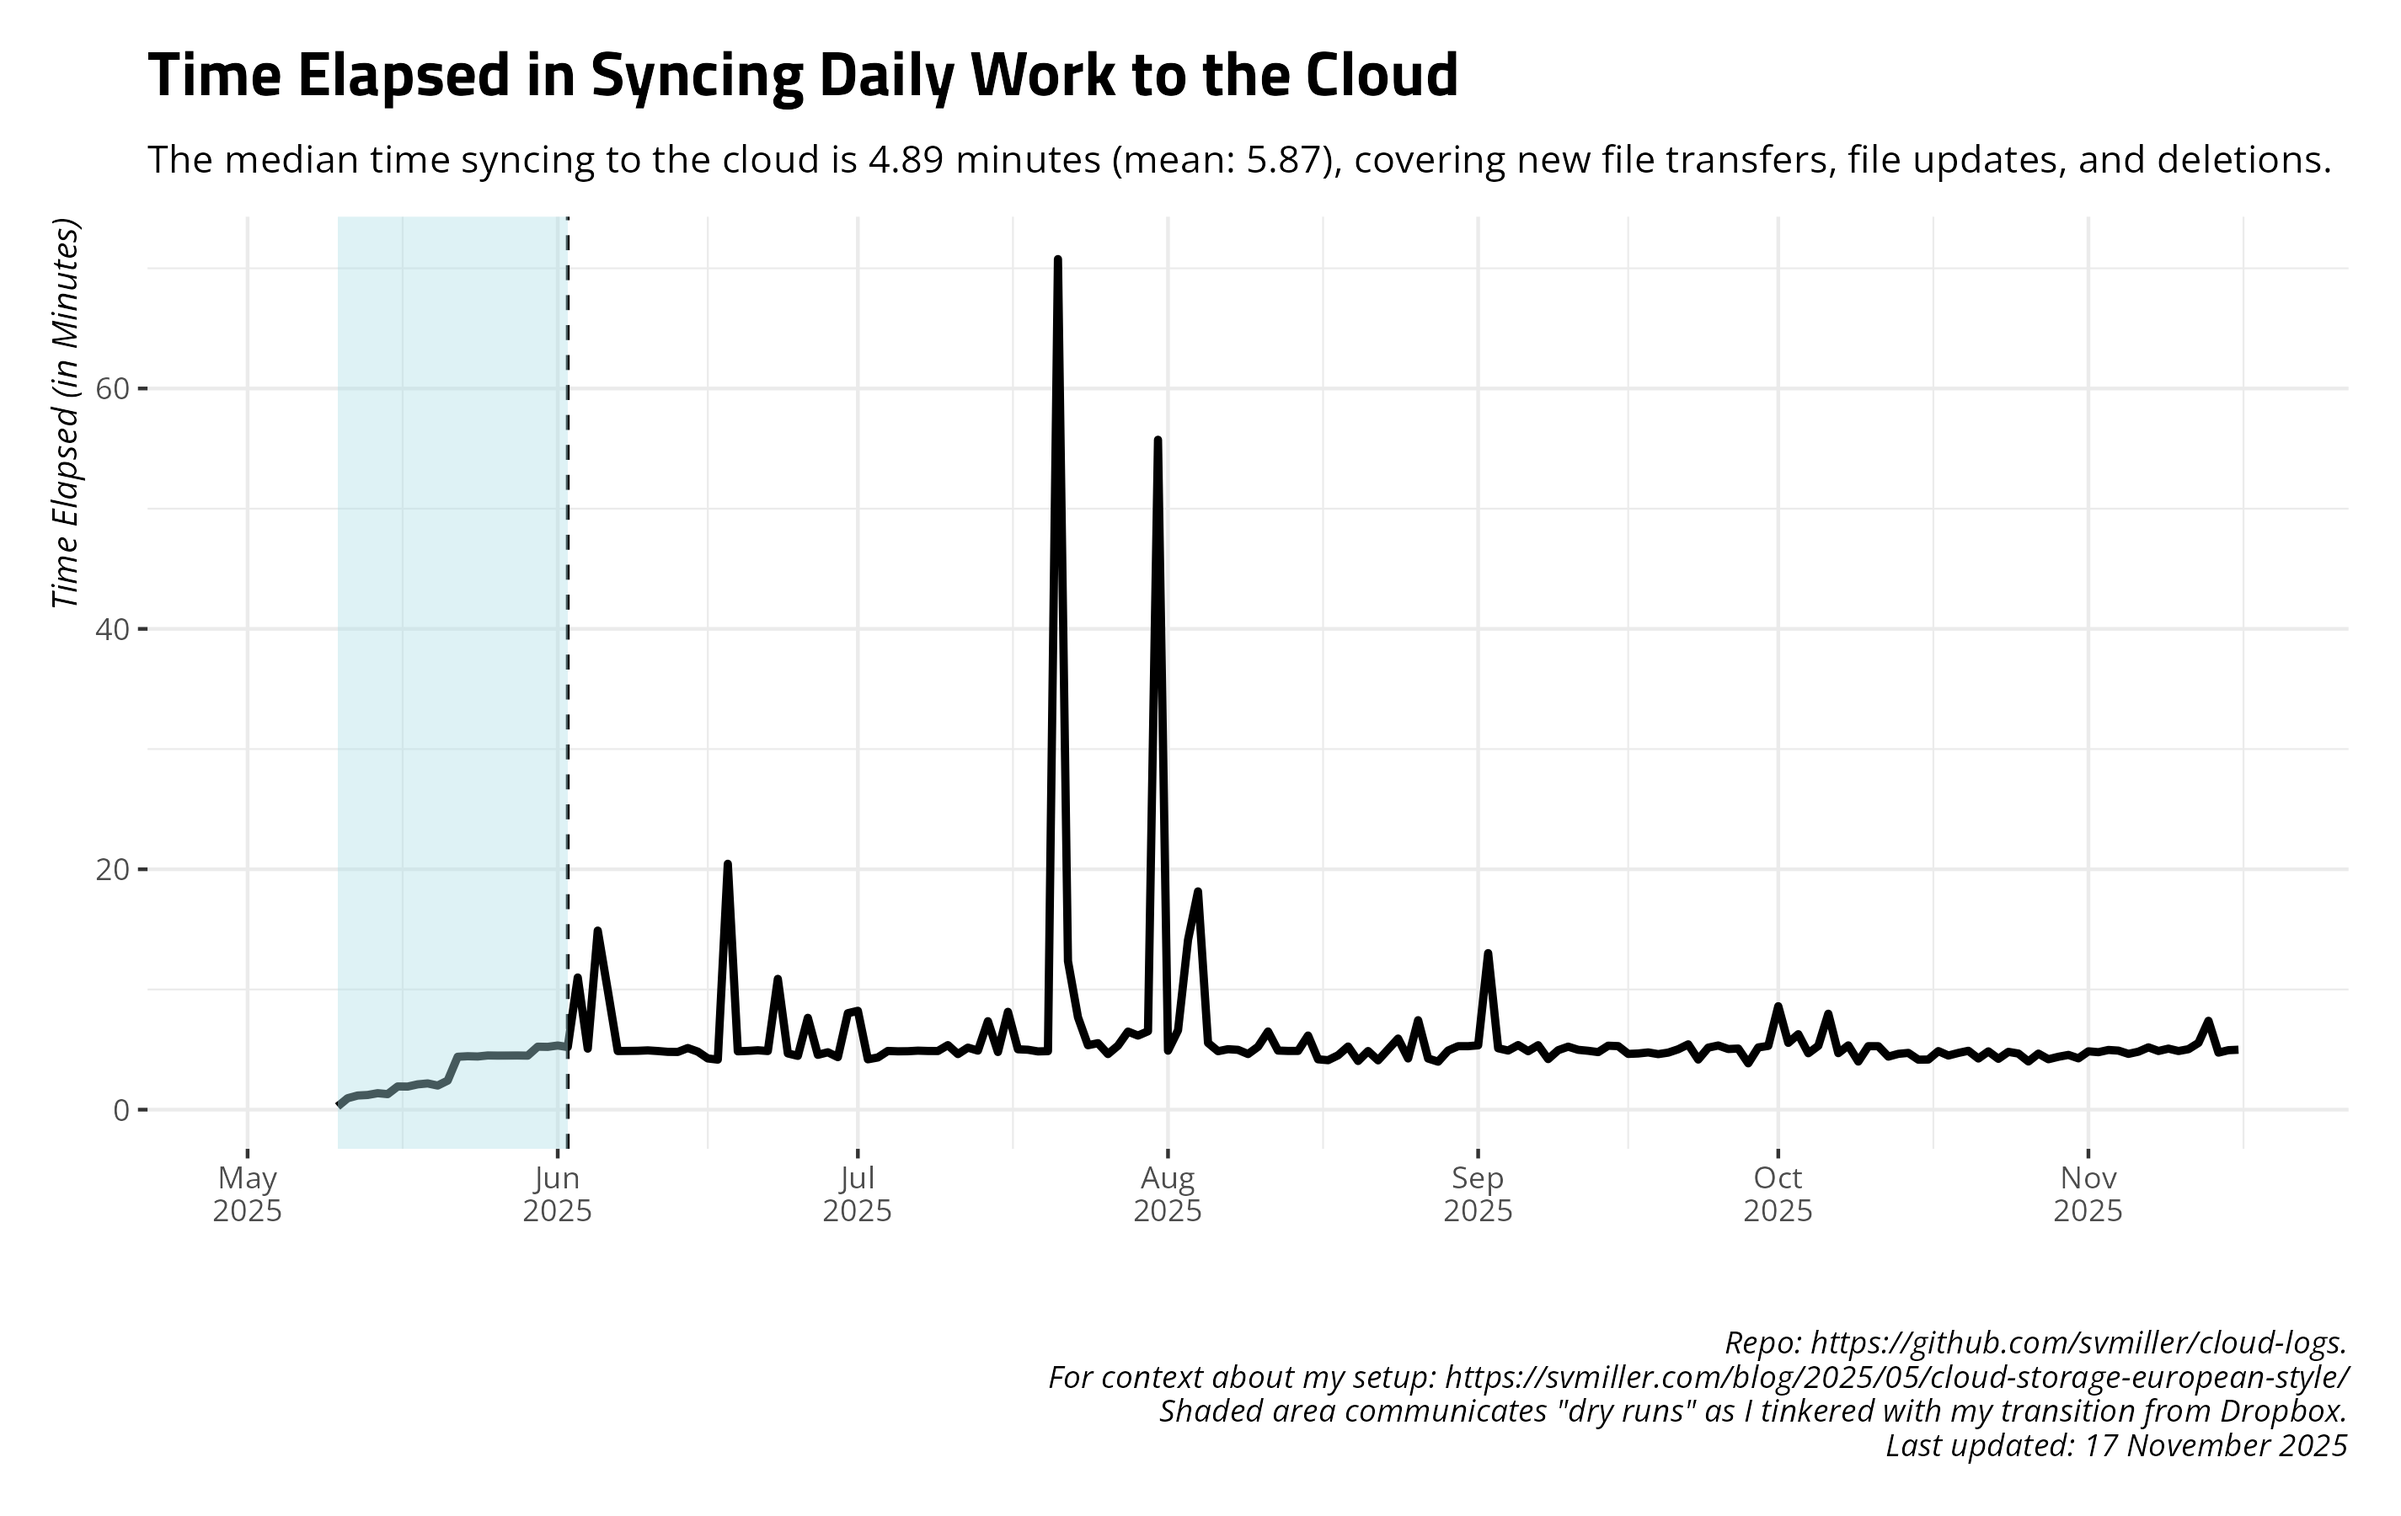
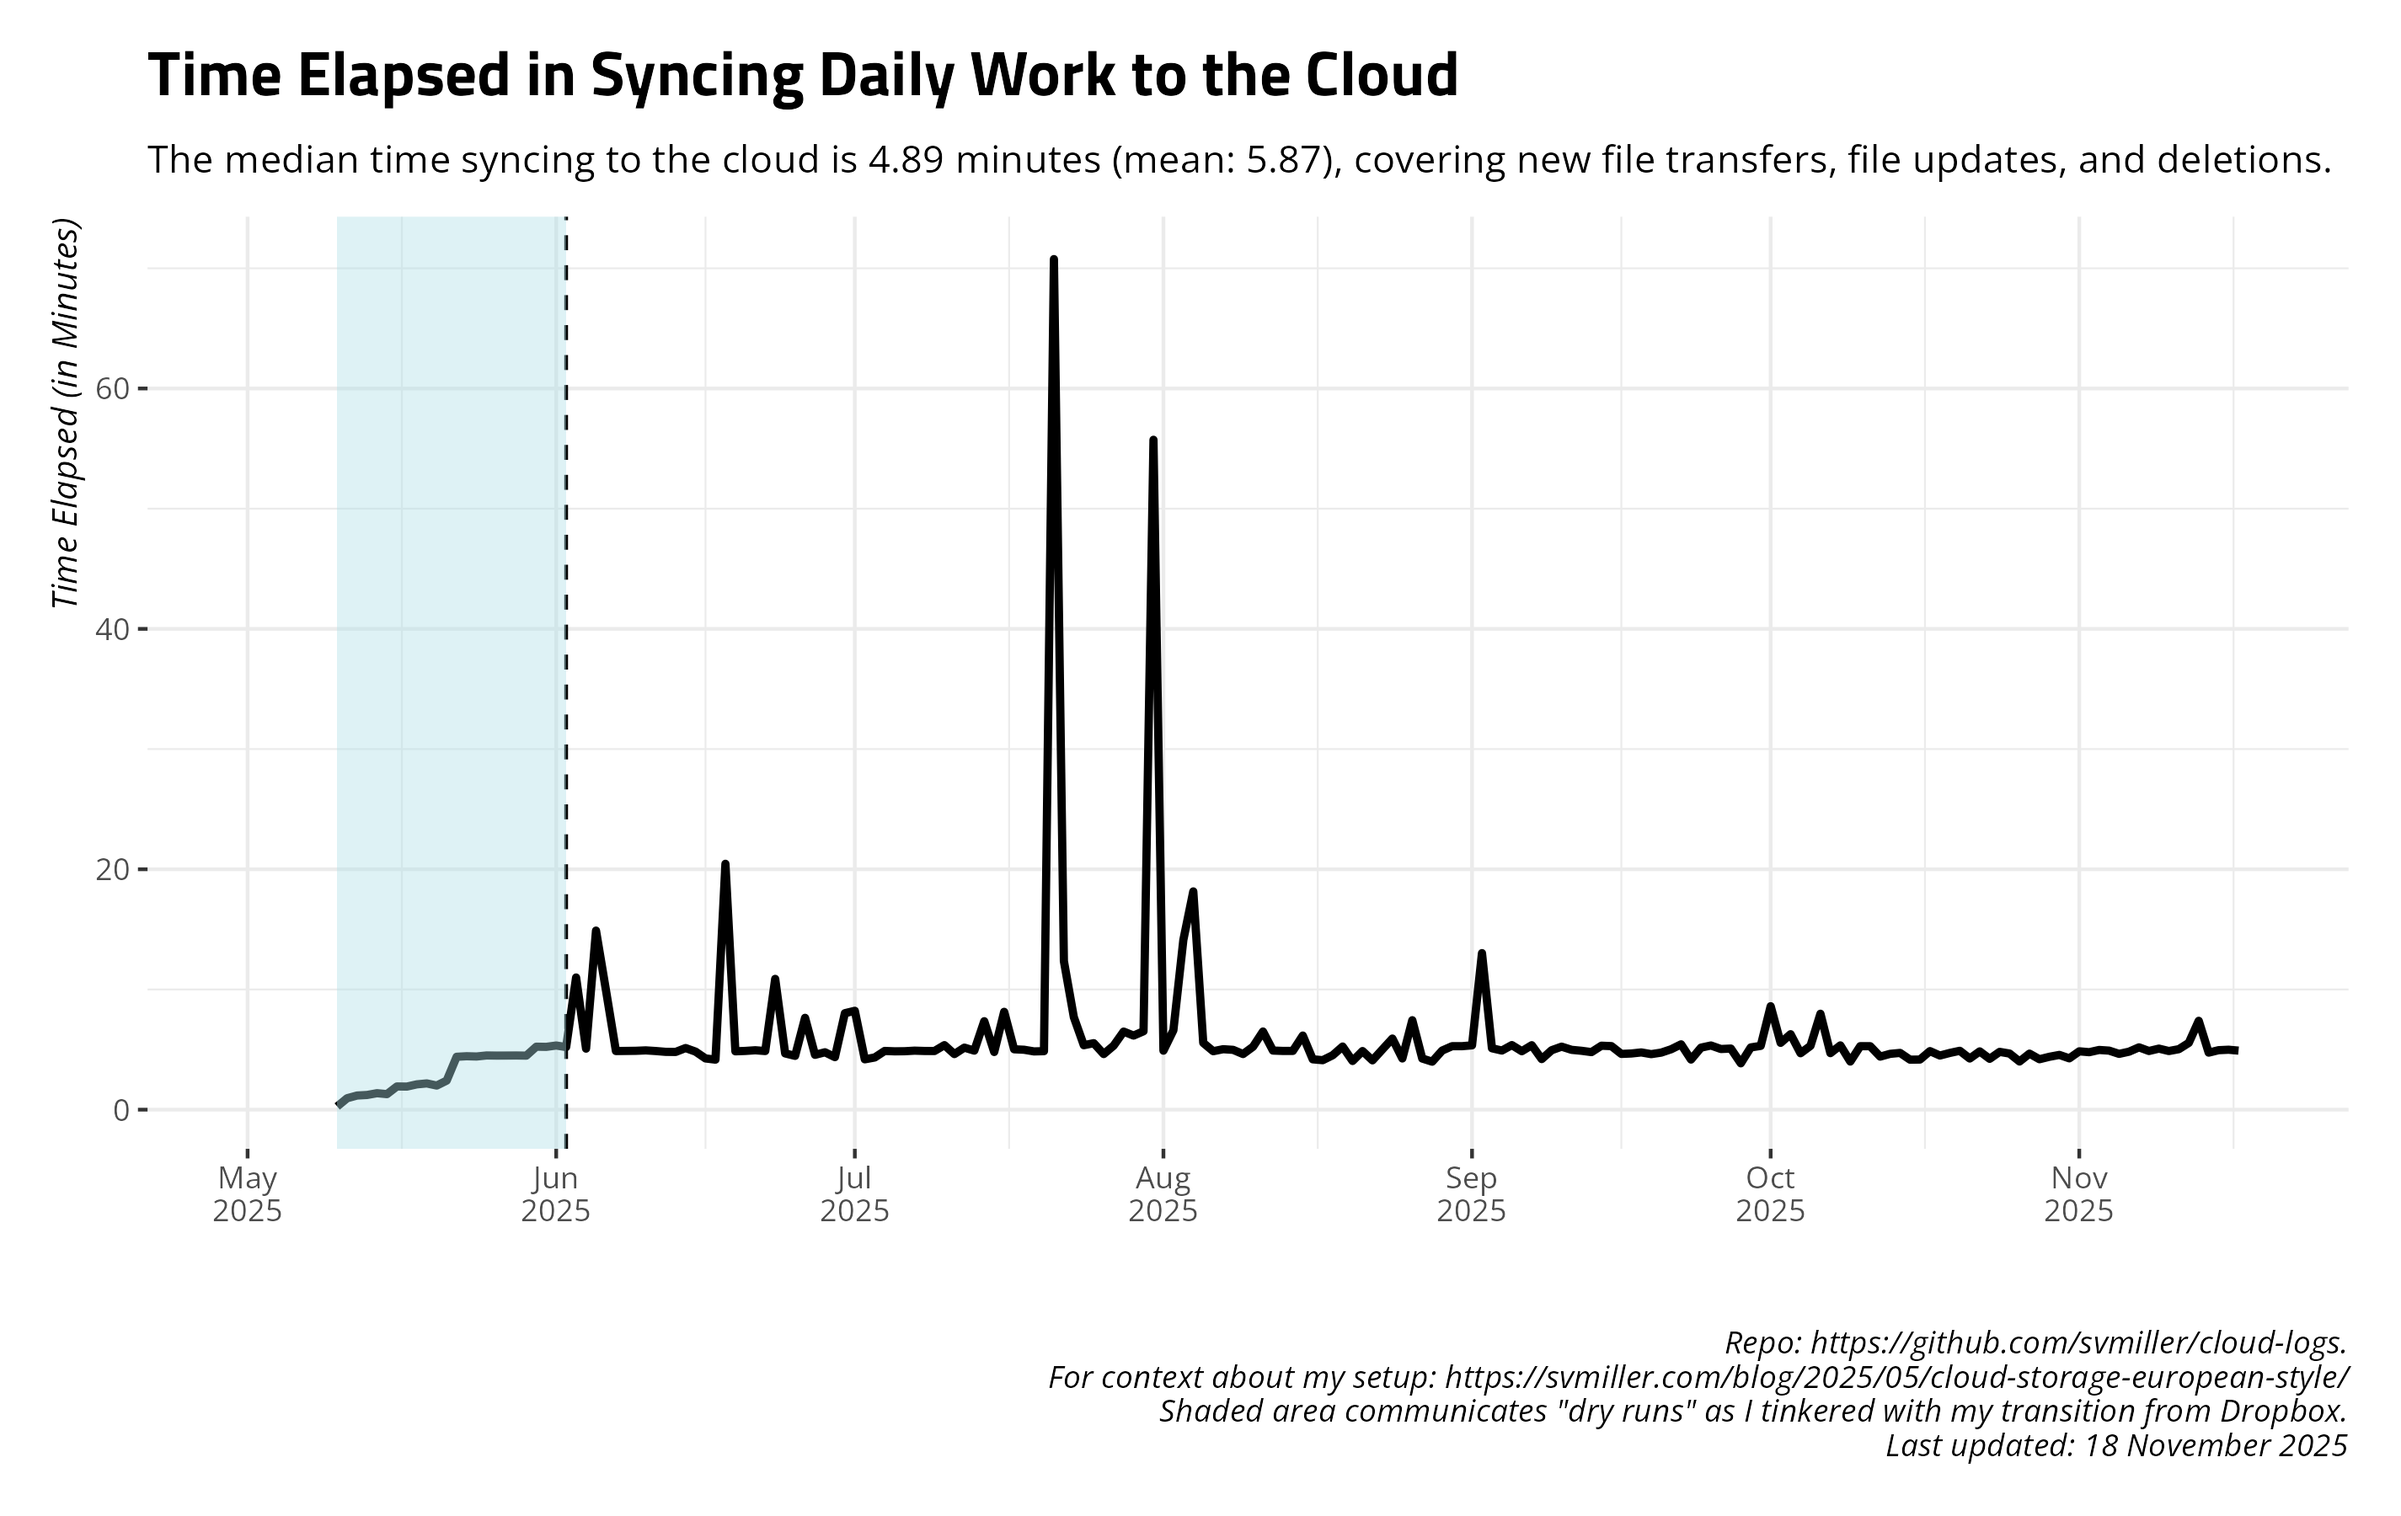
Date: 2025-11-18 09:00:16. Hi mom!

diff --git a/README.md b/README.md
@@ -27,17 +27,17 @@ and uploads to Github.
     #> # A tibble: 14 × 4
     #>    date       ftransfer stransfer   elapsed
     #>    <date>         <dbl> <chr>       <chr>  
-    #>  1 2025-11-03         2 7.941 KiB   4m58.0s
-    #>  2 2025-11-04         4 5.939 MiB   4m54.7s
-    #>  3 2025-11-05         3 17.768 MiB  4m38.5s
-    #>  4 2025-11-06        43 444.626 MiB 4m49.4s
-    #>  5 2025-11-07        71 8.049 MiB   5m11.1s
-    #>  6 2025-11-08         0 <NA>        4m52.9s
-    #>  7 2025-11-09      1714 143.133 MiB 5m4.7s 
-    #>  8 2025-11-10        48 1.490 MiB   4m52.7s
-    #>  9 2025-11-11        81 1.673 MiB   5m1.9s 
-    #> 10 2025-11-12       725 18.854 MiB  5m33.3s
-    #> 11 2025-11-13         2 1.737 MiB   7m23.6s
-    #> 12 2025-11-14        95 1.137 MiB   4m44.7s
-    #> 13 2025-11-15        37 820.913 KiB 4m56.9s
-    #> 14 2025-11-16         0 <NA>        4m59.2s
+    #>  1 2025-11-04         4 5.939 MiB   4m54.7s
+    #>  2 2025-11-05         3 17.768 MiB  4m38.5s
+    #>  3 2025-11-06        43 444.626 MiB 4m49.4s
+    #>  4 2025-11-07        71 8.049 MiB   5m11.1s
+    #>  5 2025-11-08         0 <NA>        4m52.9s
+    #>  6 2025-11-09      1714 143.133 MiB 5m4.7s 
+    #>  7 2025-11-10        48 1.490 MiB   4m52.7s
+    #>  8 2025-11-11        81 1.673 MiB   5m1.9s 
+    #>  9 2025-11-12       725 18.854 MiB  5m33.3s
+    #> 10 2025-11-13         2 1.737 MiB   7m23.6s
+    #> 11 2025-11-14        95 1.137 MiB   4m44.7s
+    #> 12 2025-11-15        37 820.913 KiB 4m56.9s
+    #> 13 2025-11-16         0 <NA>        4m59.2s
+    #> 14 2025-11-17        32 359.220 KiB 4m54.7s
